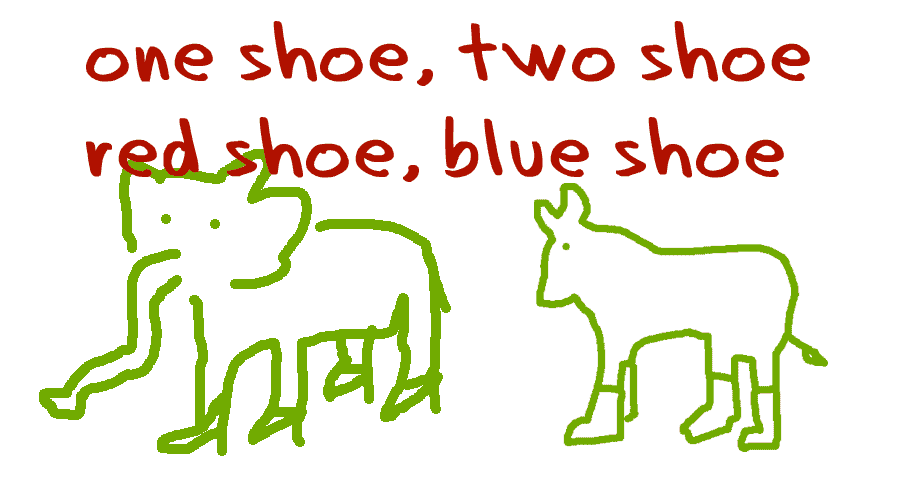
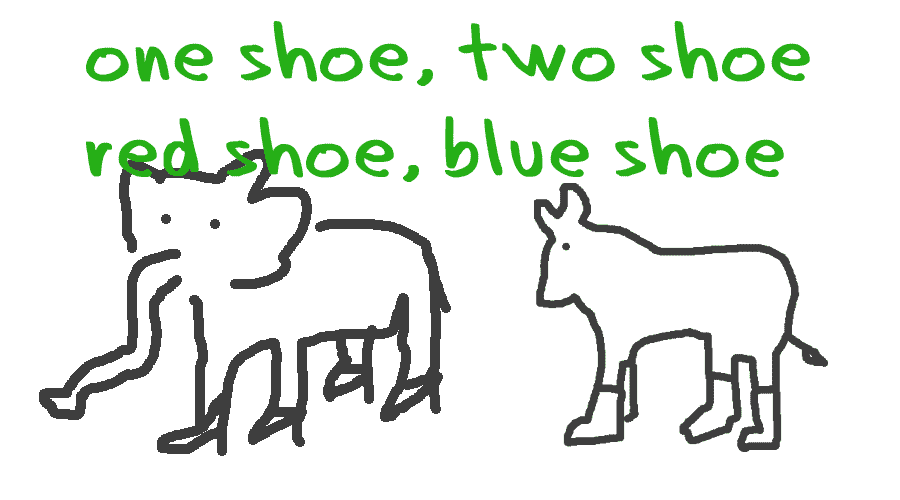
aesthetic nitpick

diff --git a/views/index.html b/views/index.html
@@ -51,11 +51,11 @@
 		color:#999;
 	}
 	a { 
-		color:#71ab01;
+		color:#26af17;
 	}
 	
 	a:hover{
-		background-color:#71ab01;
+		background-color:#26af17;
 		color:#fff;
 	}
 	
